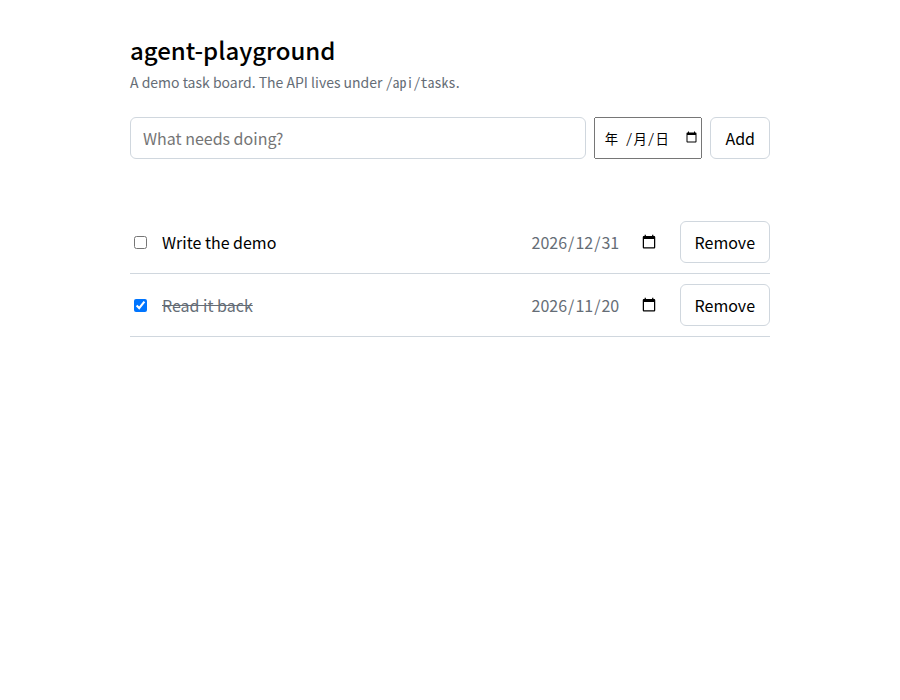
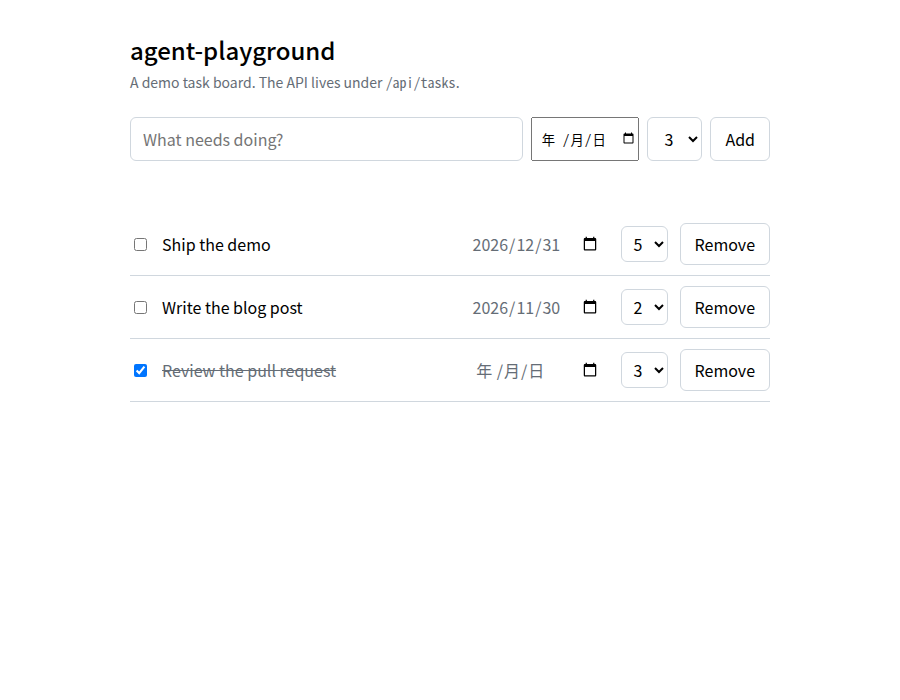
feat: add a 1-5 priority to tasks

diff --git a/public/index.html b/public/index.html
@@ -23,6 +23,10 @@
     border: 1px solid var(--line); border-radius: 6px; background: transparent; color: inherit;
   }
   button:hover { border-color: var(--muted); }
+  select {
+    padding: .5rem .75rem; font: inherit; cursor: pointer;
+    border: 1px solid var(--line); border-radius: 6px; background: transparent; color: inherit;
+  }
   ul { list-style: none; margin: 1.5rem 0 0; padding: 0; }
   li {
     display: flex; align-items: center; gap: .75rem;
@@ -35,6 +39,7 @@
     border: 1px solid transparent; border-radius: 6px; background: transparent;
   }
   li input[type=date]:hover, li input[type=date]:focus { border-color: var(--line); color: inherit; }
+  li select { padding: .25rem .5rem; }
   .empty { color: var(--muted); padding: 1.5rem 0; text-align: center; }
   .error { color: #cf222e; font-size: .875rem; min-height: 1.25rem; margin: .5rem 0 0; }
 </style>
@@ -46,6 +51,13 @@
 <form id="new">
   <input id="title" type="text" placeholder="What needs doing?" autocomplete="off" required>
   <input id="due" type="date" aria-label="Due date" title="Due date">
+  <select id="priority" aria-label="Priority" title="Priority">
+    <option value="1">1</option>
+    <option value="2">2</option>
+    <option value="3" selected>3</option>
+    <option value="4">4</option>
+    <option value="5">5</option>
+  </select>
   <button type="submit">Add</button>
 </form>
 <p class="error" id="error"></p>
@@ -110,13 +122,32 @@ function row(task) {
     }).then(load).catch(show);
   });
 
+  const priority = document.createElement('select');
+  priority.className = 'priority';
+  priority.setAttribute('aria-label', 'Priority');
+  priority.title = 'Priority';
+  for (let value = 1; value <= 5; value++) {
+    const option = document.createElement('option');
+    option.value = String(value);
+    option.textContent = String(value);
+    if (task.priority === value) option.selected = true;
+    priority.append(option);
+  }
+  priority.addEventListener('change', async () => {
+    await api('/api/tasks/' + task.id, {
+      method: 'PATCH',
+      headers: { 'content-type': 'application/json' },
+      body: JSON.stringify({ priority: Number(priority.value) }),
+    }).then(load).catch(show);
+  });
+
   const remove = document.createElement('button');
   remove.textContent = 'Remove';
   remove.addEventListener('click', async () => {
     await api('/api/tasks/' + task.id, { method: 'DELETE' }).then(load).catch(show);
   });
 
-  item.append(toggle, title, due, remove);
+  item.append(toggle, title, due, priority, remove);
   return item;
 }
 
@@ -128,14 +159,16 @@ document.getElementById('new').addEventListener('submit', async event => {
   event.preventDefault();
   const input = document.getElementById('title');
   const due = document.getElementById('due');
+  const priority = document.getElementById('priority');
   try {
     await api('/api/tasks', {
       method: 'POST',
       headers: { 'content-type': 'application/json' },
-      body: JSON.stringify({ title: input.value, due: due.value || null }),
+      body: JSON.stringify({ title: input.value, due: due.value || null, priority: Number(priority.value) }),
     });
     input.value = '';
     due.value = '';
+    priority.value = '3';
     error.textContent = '';
     await load();
   } catch (err) {

diff --git a/test/tasks.test.js b/test/tasks.test.js
@@ -27,6 +27,23 @@ test('stores an optional due date, defaulting to null', () => {
   assert.throws(() => store.create(tasks, { title: 'e', due: '2026-02-30' }), /valid date/);
 });
 
+test('stores a priority, defaulting to 3', () => {
+  const withPriority = store.create(tasks, { title: 'a', priority: 5 });
+  assert.equal(withPriority.priority, 5);
+  const withStringPriority = store.create(tasks, { title: 'b', priority: '2' });
+  assert.equal(withStringPriority.priority, 2);
+  const defaultPriority = store.create(tasks, { title: 'c' });
+  assert.equal(defaultPriority.priority, 3);
+});
+
+test('rejects a priority outside 1-5', () => {
+  assert.throws(() => store.create(tasks, { title: 'a', priority: 0 }), /between 1 and 5/);
+  assert.throws(() => store.create(tasks, { title: 'b', priority: 6 }), /between 1 and 5/);
+  assert.throws(() => store.create(tasks, { title: 'c', priority: 2.5 }), /between 1 and 5/);
+  assert.throws(() => store.create(tasks, { title: 'd', priority: 'high' }), /between 1 and 5/);
+  assert.throws(() => store.create(tasks, { title: 'e', priority: true }), /between 1 and 5/);
+});
+
 test('trims the title and rejects an empty one', () => {
   assert.equal(store.create(tasks, { title: '  spaced  ' }).title, 'spaced');
   assert.throws(() => store.create(tasks, { title: '   ' }), /title is required/);
@@ -52,6 +69,14 @@ test('updates and clears a due date', () => {
   assert.equal(store.update(tasks, task.id, { due: '2027-01-01' }).due, '2027-01-01');
   assert.equal(store.update(tasks, task.id, { due: null }).due, null);
   assert.throws(() => store.update(tasks, task.id, { due: 'nope' }), /valid date/);
+});
+
+test('updates a priority, rejecting an invalid one', () => {
+  const task = store.create(tasks, { title: 'a' });
+  assert.equal(task.priority, 3);
+  assert.equal(store.update(tasks, task.id, { priority: 1 }).priority, 1);
+  assert.throws(() => store.update(tasks, task.id, { priority: 9 }), /between 1 and 5/);
+  assert.equal(store.update(tasks, task.id, { priority: 5 }).priority, 5);
 });
 
 test('removes a task, and reports a missing one', () => {

diff --git a/src/tasks.js b/src/tasks.js
@@ -1,5 +1,5 @@
 // The task store: pure functions over an array of tasks.
-// A task is { id, title, done, due }. The store owns id assignment only.
+// A task is { id, title, done, due, priority }. The store owns id assignment only.
 
 let nextId = 1;
 
@@ -20,10 +20,24 @@ function normalizeDue(due) {
   return clean;
 }
 
-export function create(tasks, { title, done = false, due = null }) {
+// A priority is an integer from 1 to 5, defaulting to 3.
+function normalizePriority(priority) {
+  if (typeof priority === 'boolean') throw new Error('priority must be an integer between 1 and 5');
+  const num = Number(priority);
+  if (!Number.isInteger(num) || num < 1 || num > 5) throw new Error('priority must be an integer between 1 and 5');
+  return num;
+}
+
+export function create(tasks, { title, done = false, due = null, priority = 3 }) {
   const clean = typeof title === 'string' ? title.trim() : '';
   if (!clean) throw new Error('title is required');
-  const task = { id: nextId++, title: clean, done: Boolean(done), due: normalizeDue(due) };
+  const task = {
+    id: nextId++,
+    title: clean,
+    done: Boolean(done),
+    due: normalizeDue(due),
+    priority: normalizePriority(priority),
+  };
   tasks.push(task);
   return task;
 }
@@ -43,6 +57,7 @@ export function update(tasks, id, patch) {
   }
   if (patch.done !== undefined) task.done = Boolean(patch.done);
   if (patch.due !== undefined) task.due = normalizeDue(patch.due);
+  if (patch.priority !== undefined) task.priority = normalizePriority(patch.priority);
   return task;
 }
 

diff --git a/README.md b/README.md
@@ -31,8 +31,8 @@ No dependencies, no build step.
 | Method | Path | Does |
 | --- | --- | --- |
 | `GET` | `/api/tasks` | Lists tasks |
-| `POST` | `/api/tasks` | Creates a task from `{"title": "…", "due": "YYYY-MM-DD"}` (`due` is optional) |
-| `PATCH` | `/api/tasks/:id` | Updates `title`, `done`, or `due` |
+| `POST` | `/api/tasks` | Creates a task from `{"title": "…", "due": "YYYY-MM-DD", "priority": 1-5}` (`due` and `priority` are optional; priority defaults to 3) |
+| `PATCH` | `/api/tasks/:id` | Updates `title`, `done`, `due`, or `priority` |
 | `DELETE` | `/api/tasks/:id` | Removes a task |
 
 ## Good things to ask the agent for
